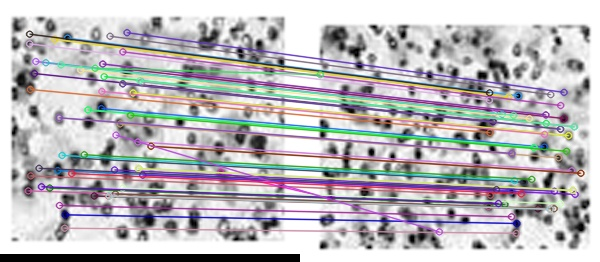
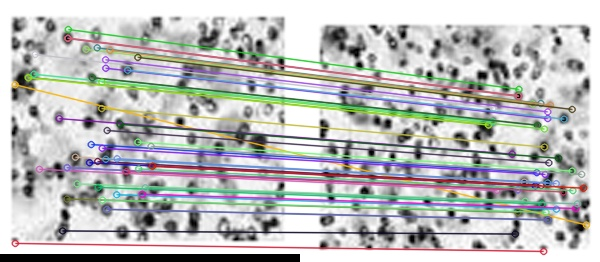
updated sift to work with boxes

diff --git a/sift.py b/sift.py
@@ -1,4 +1,4 @@
-import numpy as np
+'''import numpy as np
 import cv2
 import sys
 from matplotlib import pyplot as plt
@@ -38,4 +38,137 @@ draw_params = dict(matchColor = (0,255,0),
 
 img3 = cv2.drawMatchesKnn(img1,kp1,img2,kp2,matches,None,**draw_params)
 
-plt.imshow(img3,),plt.show()
+plt.imshow(img3,),plt.show()'''
+
+import cv2 as cv
+import sys
+import numpy as np
+from boxDrawer import BoxDrawer
+
+"""
+Script to find similarities in images. There's still a lot of cases that this does not find. 
+For example if an images colors are inverted, the features won't be found. But it's a first step.
+
+The SURF algorithm is protected by some copyright issues so in order to use it you must install previous
+versions of opencv and contrib. 
+
+I used the following commands (you may need to uninstall current versions if you already have them. Or
+create a virtual environment for this):
+
+pip install opencv-contrib-python==3.4.2.16
+pip install opencv-python==3.4.2.16
+
+Information and code from the following:
+
+https://docs.opencv.org/2.4/modules/nonfree/doc/feature_detection.html?highlight=threshold
+https://docs.opencv.org/3.4/d5/d6f/tutorial_feature_flann_matcher.html
+https://docs.opencv.org/3.4/da/df5/tutorial_py_sift_intro.html
+https://www.youtube.com/watch?v=WOH7hDXrfwc&list=PL6Yc5OUgcoTlQuAdhtnByty15Ea9-cQly&index=1
+https://www.youtube.com/watch?v=9mQznoHk4mU&list=PL6Yc5OUgcoTlQuAdhtnByty15Ea9-cQly&index=2
+https://www.youtube.com/watch?v=ND5vGDNvN0s&list=PL6Yc5OUgcoTlQuAdhtnByty15Ea9-cQly&index=3
+https://www.youtube.com/watch?v=ADuHe4JNLXs&list=PL6Yc5OUgcoTlQuAdhtnByty15Ea9-cQly&index=4
+"""
+class SimilarityDetector:
+
+    def __init__(self):
+        """
+        Empty initializer for now
+        """
+        pass
+
+    def filterMatches(self,a_ratioThresh,matches):
+        #-- Filter matches using the Lowe's ratio test
+        # Changing the ratio_thresh variable allows more/fewer matches
+        good_matches = []
+
+        #-- Loop through matches and only allow those that meet the threshold
+        # append those values to good_matches array
+        for m,n in matches:
+            if m.distance < a_ratioThresh * n.distance:
+                good_matches.append(m)
+        return good_matches
+
+    def findSimilarities(self,a_imgPath1, a_imgPath2, a_outPathMatches,a_outPathOriginal,
+                         a_outPathNew, a_minHessian = 200, a_ratioThresh = 0.6):
+        """
+        Function using feature detection to find similarities between images
+        :param a_imgPath1: path to first image
+        :param a_imgPath2: path to second image
+        :param a_ratioThresh: threshold for matching key features. 0-1. The closer to 1, the more features
+            will be matched. The closer to 0, the fewer
+        """
+
+        #-- Step 0: Read images; convert to grayscale
+        img1 = cv.imread(a_imgPath1)
+        # img1= cv.cvtColor(img1,cv.COLOR_BGR2GRAY)
+
+        img2 = cv.imread(a_imgPath2)
+        # img2= cv.cvtColor(img2,cv.COLOR_BGR2GRAY)
+
+
+        #-- Step 1: Detect the keypoints using SIFT Detector, compute the descriptors
+        detector = cv.xfeatures2d_SIFT.create()
+        keypoints1, descriptors1 = detector.detectAndCompute(img1, None)
+        keypoints2, descriptors2 = detector.detectAndCompute(img2, None)
+
+
+        #-- Match descriptor vectors with a FLANN based matcher
+        #currently configured to work best with SURF but 
+        matcher = cv.DescriptorMatcher_create(cv.DescriptorMatcher_FLANNBASED)
+        matches = matcher.knnMatch(descriptors1, descriptors2, 2)
+
+        good_matches = self.filterMatches(a_ratioThresh,matches)
+
+
+        # Keep only key points that were matched
+        kp1Matched = [keypoints1[m.queryIdx] for m in good_matches]
+        kp2Matched = [keypoints2[m.trainIdx] for m in good_matches]
+
+        #-- Draw matches
+        img_matches = np.empty((max(img1.shape[0], img2.shape[0]), img1.shape[1]+img2.shape[1], 3), dtype=np.uint8)
+        cv.drawMatches(img1, keypoints1, img2, keypoints2, good_matches, img_matches, flags=cv.DrawMatchesFlags_NOT_DRAW_SINGLE_POINTS)
+        # matchOriginal = cv.drawKeypoints(img1,kp1Matched,None,(255,0,0),4)
+        # matchTrain = cv.drawKeypoints(img2,kp2Matched,None,(255,0,0),4)
+
+        # Draw boxes around key matches
+        bd = BoxDrawer(kp1Matched,30,img1,(51,255,255),2)
+        img1 = bd.img
+        bd = BoxDrawer(kp2Matched,30,img2,(51,255,255),2)
+        img2 = bd.img
+
+        # write out images
+        cv.imwrite(a_outPathMatches, img_matches)
+        cv.imwrite(a_outPathOriginal,img1)
+        cv.imwrite(a_outPathNew, img2)
+
+
+if __name__ == "__main__":
+
+    # # Paths for images to be compared
+    imgPath1 = "images/test_images/cells2.2.png"
+    imgPath2 = "images/test_images/cells2.1.png"
+    #
+    # # outputPaths
+    # outPathMatches = 'images/cell_mapped_jt.jpg'
+    # outPathOriginal = 'images/cell_original_jt.jpg'
+    # outPathNew = 'images/cell_new_jt.jpg'
+
+    # # Paths for images to be compared
+    # imgPath1 = "images/another_cell_jt.png"
+    # imgPath2 = "images/another_cell_2_jt.png"
+
+    # Paths for images to be compared
+    #imgPath1 = "images/third_jt.png"
+    #imgPath2 = "images/fourth_jt.png"
+
+    # outputPaths
+    outPathMatches = 'images/ikemap.jpg'
+    outPathOriginal = 'images/ikeorig.jpg'
+    outPathNew = 'images/ikenew.jpg'
+
+    # Create instance of class
+    simDet = SimilarityDetector()
+
+    # Show similarities
+    simDet.findSimilarities(imgPath1, imgPath2,outPathMatches,outPathOriginal,outPathNew)
+

diff --git a/surf.py b/surf.py
@@ -58,7 +58,7 @@ class SimilarityDetector:
             will be matched. The closer to 0, the fewer
         """
 
-        #-- Stop 0: Read images; convert to grayscale
+        #-- Step 0: Read images; convert to grayscale
         img1 = cv.imread(a_imgPath1)
         # img1= cv.cvtColor(img1,cv.COLOR_BGR2GRAY)
 
